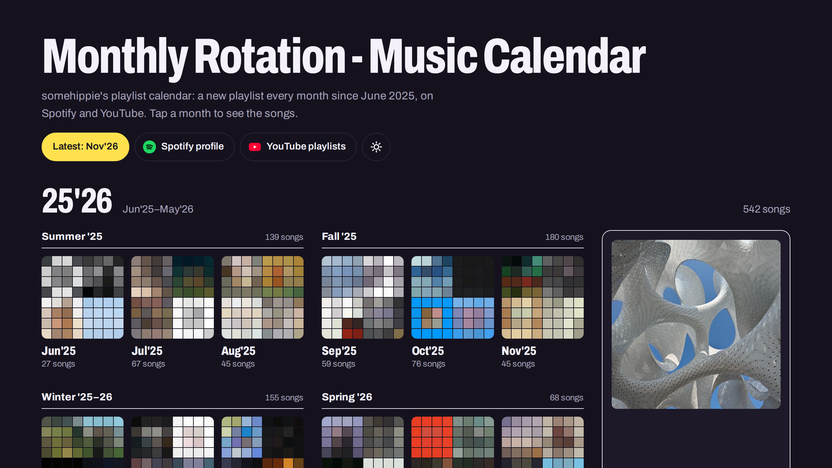
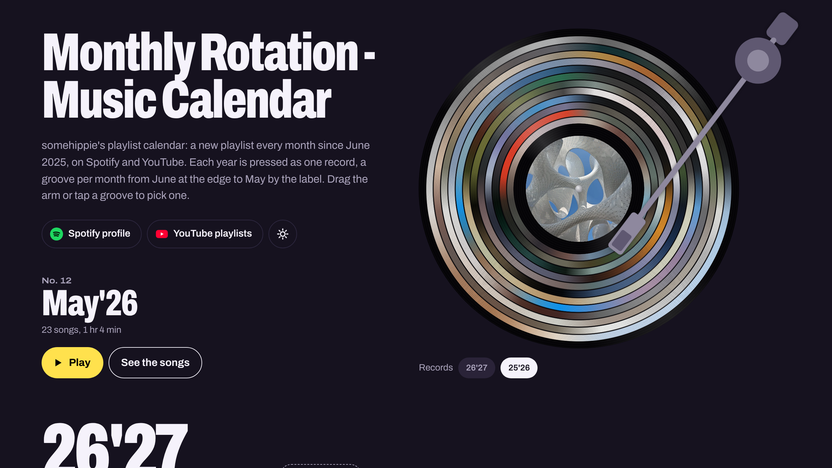
Calendar card: the record player screenshot and copy
The calendar now presses each year as a record, so the screenshot, captions and description follow it.

diff --git a/index.html b/index.html
@@ -118,14 +118,14 @@
             <p class="artifact-tag st-label">Music</p>
             <h3 class="st-h3">Monthly Rotation&nbsp;- Music Calendar</h3>
             <figure class="artifact-shot">
-              <a class="shot" href="assets/monthly-rotation.png" data-size="2560x1800" data-caption="Monthly Rotation - Music Calendar: the first year, June 2025 to May 2026, closed by Midyears 25'26." data-alt="Monthly Rotation - Music Calendar in its dark theme: the title, a line about the calendar, and buttons for the latest month, Spotify and YouTube; then the year 25'26, June 2025 to May 2026, 542 songs, as four seasons of three months, each month a tile of its playlist's cover colours in an 8 by 8 grid with its song count, and at the right Midyears 25'26, the year-end playlist of 254 songs, on a photo looking up through The Orb.">
-                <img src="assets/monthly-rotation-thumb.png" width="832" height="468" loading="lazy" decoding="async" alt="Monthly Rotation - Music Calendar in its dark theme: the title above the year 25'26, laid out as seasons of monthly tiles, each a grid of its playlist's cover colours, with Midyears 25'26 at the right on a photo looking up through The Orb."><span class="visually-hidden"> Opens a larger view.</span>
+              <a class="shot" href="assets/monthly-rotation.png" data-size="2560x1800" data-caption="Monthly Rotation - Music Calendar: the 25'26 record on the turntable, with Midyears 25'26 as its label." data-alt="Monthly Rotation - Music Calendar in its dark theme: the title and a line about the calendar at the left, with May'26 cued and buttons to play it or see the songs; at the right a turntable holding the 25'26 record, twelve grooves coloured from each month's playlist cover around a label photo looking up through The Orb, its tonearm resting on the innermost groove; below, the calendar's newest year begins.">
+                <img src="assets/monthly-rotation-thumb.png" width="832" height="468" loading="lazy" decoding="async" alt="Monthly Rotation - Music Calendar in its dark theme: the title beside a turntable holding the 25'26 record, its twelve grooves coloured from each month's cover around a photo label of The Orb."><span class="visually-hidden"> Opens a larger view.</span>
               </a>
-              <figcaption class="st-small">The calendar's first year, as published.</figcaption>
+              <figcaption class="st-small">The 25'26 record, with Midyears on the label.</figcaption>
             </figure>
           </div>
           <div class="artifact-body">
-            <p class="st-body artifact-desc">I make a playlist every month. This lays them out as a calendar, June to May, with each year closed by Midyears, my year-end compilation. Any month or song plays from Spotify or YouTube right on the page.</p>
+            <p class="st-body artifact-desc">I make a playlist every month. Each year, June to May, is pressed as one record: a groove per month, coloured from its cover, with Midyears, my year-end compilation, as the label. Any month or song plays right on the page.</p>
             <dl class="artifact-facts st-small">
               <dt>Updates</dt><dd>Every Monday, from Spotify</dd>
               <dt>Made with</dt><dd>Claude, from the design to the weekly refresh</dd>
